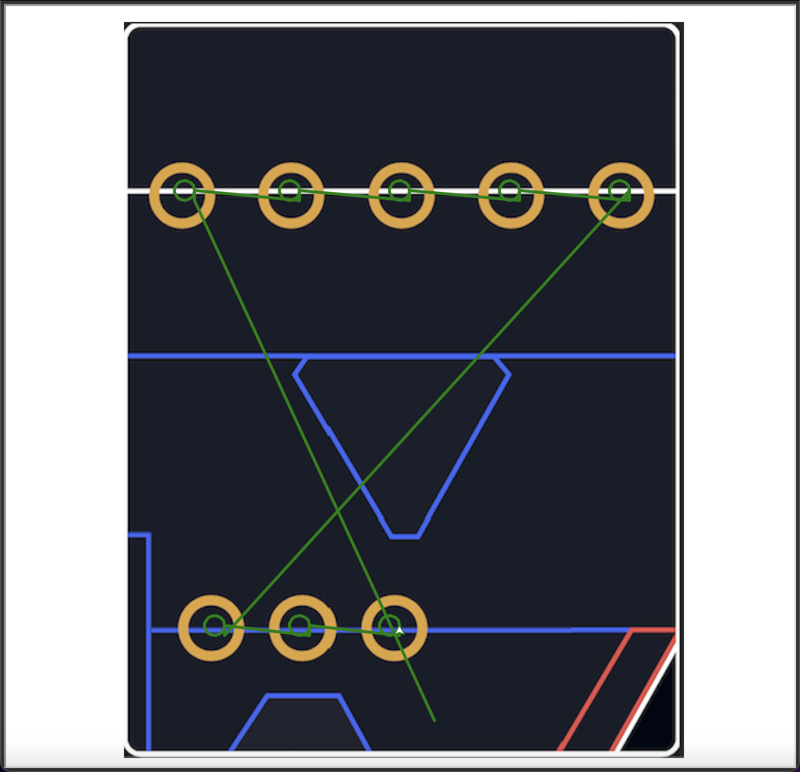
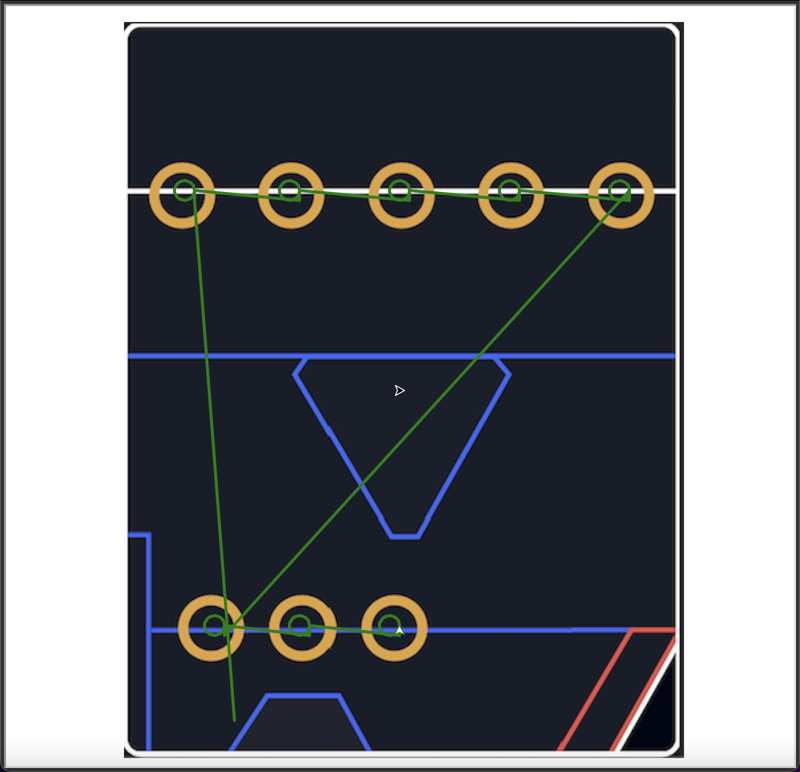
more fixes

diff --git a/api_code/auto_visualizer/main.py b/api_code/auto_visualizer/main.py
@@ -16,12 +16,12 @@ color = 'blue'
 #testing for each field color
 if color == 'blue':
     try:
-        wn.bgpic("auto_visualizer/blue.png")
+        wn.bgpic("api_code/auto_visualizer/blue.png")
     except Exception as e:
         print("Error loading background image:", e)
 elif color == 'red':
     try:
-        wn.bgpic("auto_visualizer/red.png")
+        wn.bgpic("api_code/auto_visualizer/red.png")
     except Exception as e:
         print("Error loading background image:", e)
 
@@ -34,27 +34,51 @@ scouter = turtle.Turtle()
 
 #depending on the start position given, will travel to that position, also depends on red or blue
 def start_pos(start_pos, scouter):
-    if start_pos == 'left':
-        scouter.color('white')
-        scouter.penup()
-        scouter.goto(-150, -330)
-        scouter.pendown
-        turtle.pencolor('white')
-        scouter.left(90)
-    elif start_pos == 'middle':
-        scouter.color('white')
-        scouter.penup()
-        scouter.goto(30, -330)
-        scouter.pendown
-        scouter.pencolor('white')
-        scouter.left(90)
-    elif start_pos == 'right':
-        scouter.color('white')
-        scouter.penup()
-        scouter.goto(180, -330)
-        scouter.pendown
-        scouter.pencolor('white')
-        scouter.left(90)
+    if color == 'blue':
+        if start_pos == 'left':
+            scouter.color('white')
+            scouter.penup()
+            scouter.goto(-170, -330)
+            scouter.pendown
+            turtle.pencolor('white')
+            scouter.left(90)
+        elif start_pos == 'middle':
+            scouter.color('white')
+            scouter.penup()
+            scouter.goto(30, -330)
+            scouter.pendown
+            scouter.pencolor('white')
+            scouter.left(90)
+        elif start_pos == 'right':
+            scouter.color('white')
+            scouter.penup()
+            scouter.goto(180, -330)
+            scouter.pendown
+            scouter.pencolor('white')
+            scouter.left(90)
+    elif color == 'red':
+        if start_pos == 'left':
+            scouter.color('white')
+            scouter.penup()
+            scouter.goto(-150, -330)
+            scouter.pendown
+            turtle.pencolor('white')
+            scouter.left(90)
+        elif start_pos == 'middle':
+            scouter.color('white')
+            scouter.penup()
+            scouter.goto(30, -330)
+            scouter.pendown
+            scouter.pencolor('white')
+            scouter.left(90)
+        elif start_pos == 'right':
+            scouter.color('white')
+            scouter.penup()
+            scouter.goto(180, -330)
+            scouter.pendown
+            scouter.pencolor('white')
+            scouter.left(90)
+
 
 #------------------------------------------------------------------------------------------------
 
@@ -62,7 +86,7 @@ def start_pos(start_pos, scouter):
 def notes(notes_taken, scouter):
     if color == 'blue':
         for i in notes_taken:
-            if i == 1:
+            if i == 0:
                 scouter.penup()
                 scouter.pendown()
                 scouter.width(3)
@@ -72,7 +96,7 @@ def notes(notes_taken, scouter):
                 r = 10
                 scouter.circle(r)
                 scouter.penup()
-            elif i == 2:
+            elif i == 1:
                 scouter.penup()
                 scouter.pendown()
                 scouter.width(3)
@@ -82,7 +106,7 @@ def notes(notes_taken, scouter):
                 r = 10
                 scouter.circle(r)
                 scouter.penup()
-            elif i == 3:
+            elif i == 2:
                 scouter.penup()
                 scouter.pendown()
                 scouter.width(3)
@@ -92,7 +116,7 @@ def notes(notes_taken, scouter):
                 r = 10
                 scouter.circle(r)
                 scouter.penup()
-            elif i == 4:
+            elif i == 3:
                 scouter.penup()
                 scouter.pendown()
                 scouter.width(3)
@@ -102,7 +126,7 @@ def notes(notes_taken, scouter):
                 r = 10
                 scouter.circle(r)
                 scouter.penup()
-            elif i == 5:
+            elif i == 4:
                 scouter.penup()
                 scouter.pendown()
                 scouter.width(3)
@@ -113,7 +137,7 @@ def notes(notes_taken, scouter):
                 scouter.circle(r)
                 scouter.penup()
             
-            elif i == 8:
+            elif i == 7:
                 scouter.penup()
                 scouter.pendown()
                 scouter.width(3)
@@ -123,7 +147,7 @@ def notes(notes_taken, scouter):
                 r = 10
                 scouter.circle(r)
                 scouter.penup()
-            elif i == 7:
+            elif i == 6:
                 scouter.penup()
                 scouter.pendown()
                 scouter.width(3)
@@ -133,7 +157,7 @@ def notes(notes_taken, scouter):
                 r = 10
                 scouter.circle(r)
                 scouter.penup()
-            elif i == 6:
+            elif i == 5:
                 scouter.penup()
                 scouter.pendown()
                 scouter.width(3)
@@ -145,7 +169,7 @@ def notes(notes_taken, scouter):
                 scouter.penup()
     elif color == 'red':
         for i in notes_taken:
-            if i == 1:
+            if i == 0:
                 scouter.penup()
                 scouter.pendown()
                 scouter.width(3)
@@ -155,7 +179,7 @@ def notes(notes_taken, scouter):
                 r = 10
                 scouter.circle(r)
                 scouter.penup()
-            elif i == 2:
+            elif i == 1:
                 scouter.penup()
                 scouter.pendown()
                 scouter.width(3)
@@ -165,7 +189,7 @@ def notes(notes_taken, scouter):
                 r = 10
                 scouter.circle(r)
                 scouter.penup()
-            elif i == 3:
+            elif i == 2:
                 scouter.penup()
                 scouter.pendown()
                 scouter.width(3)
@@ -175,7 +199,7 @@ def notes(notes_taken, scouter):
                 r = 10
                 scouter.circle(r)
                 scouter.penup()
-            elif i == 4:
+            elif i == 3:
                 scouter.penup()
                 scouter.pendown()
                 scouter.width(3)
@@ -185,7 +209,7 @@ def notes(notes_taken, scouter):
                 r = 10
                 scouter.circle(r)
                 scouter.penup()
-            elif i == 5:
+            elif i == 4:
                 scouter.penup()
                 scouter.pendown()
                 scouter.width(3)
@@ -196,7 +220,7 @@ def notes(notes_taken, scouter):
                 scouter.circle(r)
                 scouter.penup()
             
-            elif i == 6:
+            elif i == 5:
                 scouter.penup()
                 scouter.pendown()
                 scouter.width(3)
@@ -206,7 +230,7 @@ def notes(notes_taken, scouter):
                 r = 10
                 scouter.circle(r)
                 scouter.penup()
-            elif i == 7:
+            elif i == 6:
                 scouter.penup()
                 scouter.pendown()
                 scouter.width(3)
@@ -216,7 +240,7 @@ def notes(notes_taken, scouter):
                 r = 10
                 scouter.circle(r)
                 scouter.penup()
-            elif i == 8:
+            elif i == 7:
                 scouter.penup()
                 scouter.pendown()
                 scouter.width(3)
@@ -231,14 +255,14 @@ def notes(notes_taken, scouter):
 #------------------------------------------------------------------------------------------------
 #this is where all data should be inputed
 # how the data will be actually, use only index[0]
-data = [[1, 0.00], [2, 0.00], [3, 0.00], [4, 0.00], [5, 0.00], [6, 0.00], [7, 0.00], [8, 0.00]]
+data = [[0, 0.00], [1, 0.00], [2, 0.00], [3, 0.00], [4, 0.00], [5, 0.00], [6, 0.00], [7, 0.00]]
 readable_data = []
 
 for i in range(len(data)):
     temp = data[i][0]
     readable_data.append(temp)
 
-start_pos('middle', scouter)
+start_pos('left', scouter)
 notes(readable_data, scouter)
 
 
@@ -250,6 +274,6 @@ img = ImageGrab.grab(bbox=(canvas.winfo_rootx(),
                             canvas.winfo_rooty(),
                             canvas.winfo_rootx() + canvas.winfo_width(),
                             canvas.winfo_rooty() + canvas.winfo_height()))
-img.save("auto_visualizer/turtle_path_img.png")
+img.save("api_code/auto_visualizer/turtle_path_img.png")
 
 turtle.done()
